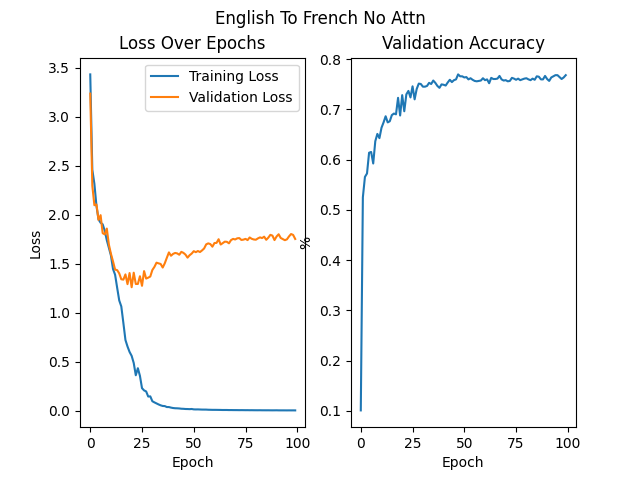
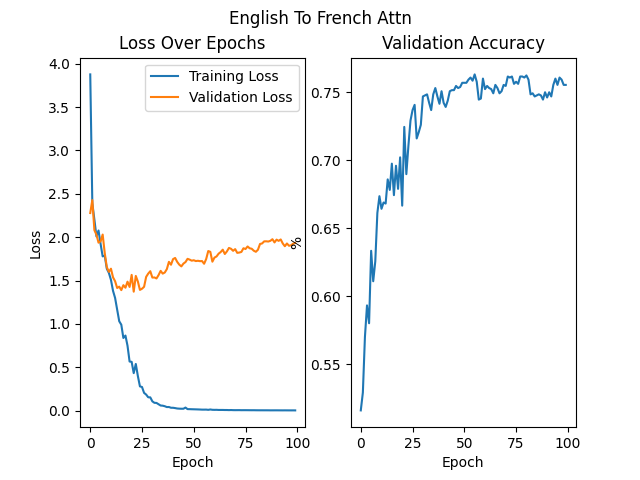
Fixed typo

diff --git a/HM4/en2fr_attn.py b/HM4/en2fr_attn.py
@@ -62,8 +62,8 @@ correct_sentences_encoded = translator.train_model(
 
 correct_sentences = [source_lang.sequence_to_sentence(seq) for seq in correct_sentences_encoded]
 
-fig = translator.plot_training('English To French No Attn')
-fig.savefig('plots/en2fr_attn.png')
+fig = translator.plot_training('English To French Attn')
+fig.savefig('latex/plots/en2fr_attn.png')
 
 params = sum(p.numel() for p in translator.parameters())
 # 18664726
